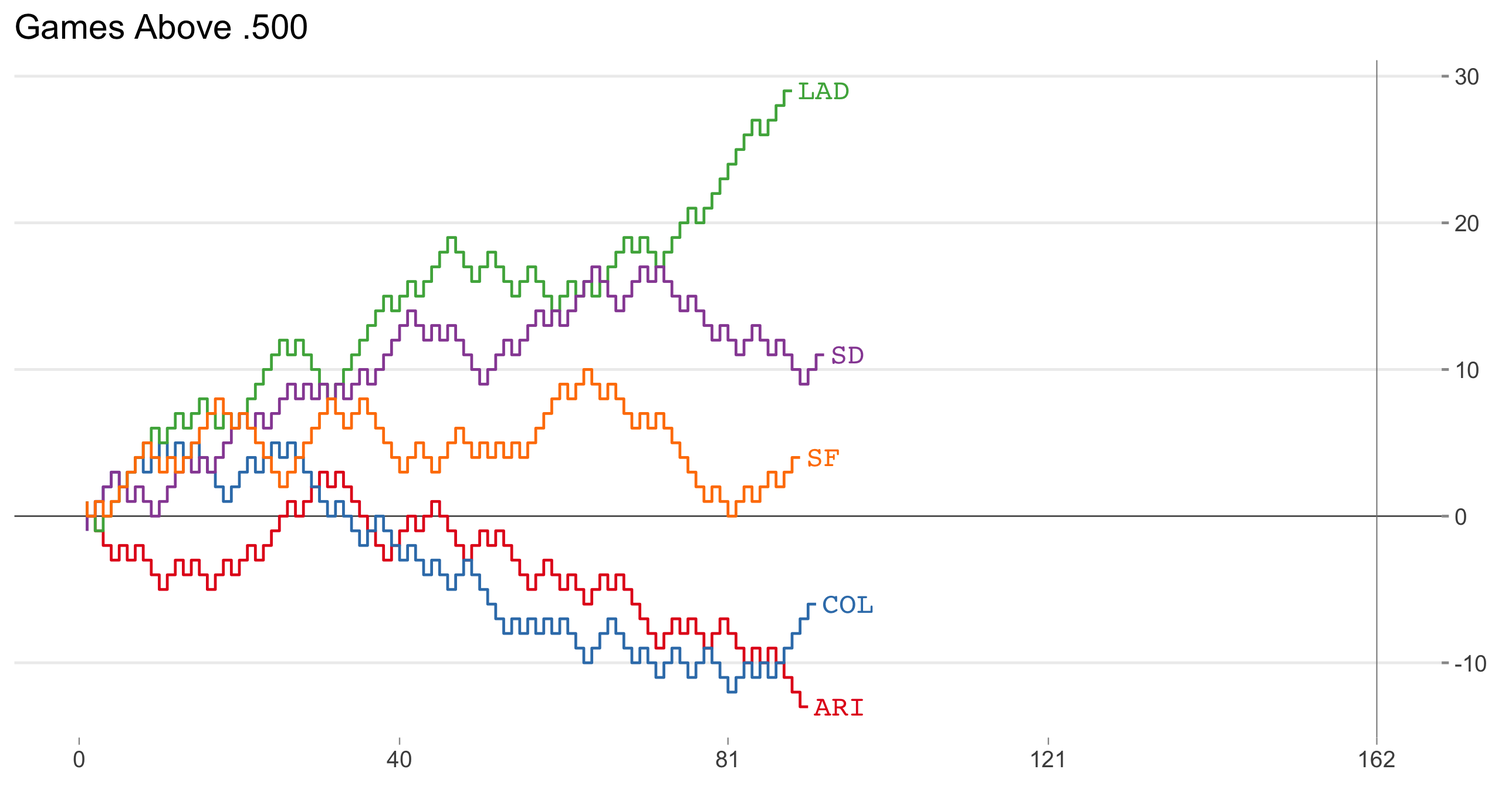
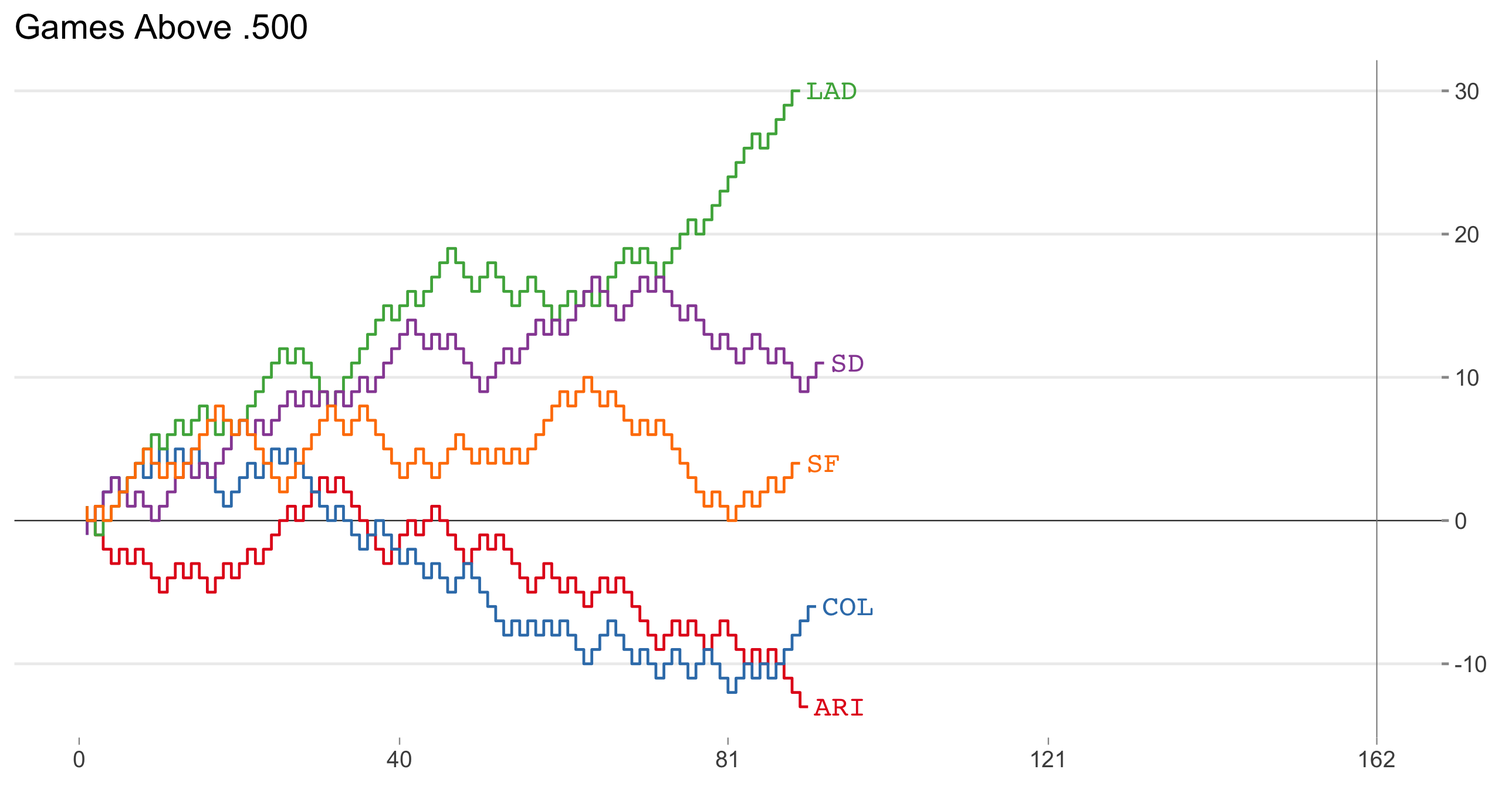
Latest data: Sun Jul 17 06:16:55 UTC 2022

diff --git a/charts/baseball.md b/charts/baseball.md
@@ -120,11 +120,11 @@ permalink: /charts/baseball/
 <td style="padding-top: 3px; padding-bottom: 3px; padding-left: 5px; padding-right: 5px; margin: 10px; border-top-style: none; border-top-width: 1px; border-top-color: #D3D3D3; border-left-style: none; border-left-width: 1px; border-left-color: #D3D3D3; border-right-style: none; border-right-width: 1px; border-right-color: #D3D3D3; vertical-align: middle; overflow-x: hidden; text-align: right; font-variant-numeric: tabular-nums;">▄▀▀▄▀▄▀▄▄▄</td></tr>
     <tr><td style="padding-top: 3px; padding-bottom: 3px; padding-left: 5px; padding-right: 5px; margin: 10px; border-top-style: none; border-top-width: 1px; border-top-color: #D3D3D3; border-left-style: none; border-left-width: 1px; border-left-color: #D3D3D3; border-right-style: none; border-right-width: 1px; border-right-color: #D3D3D3; vertical-align: middle; overflow-x: hidden; background-color: rgba(128, 128, 128, 0.05); text-align: left;">LAA</td>
 <td style="padding-top: 3px; padding-bottom: 3px; padding-left: 5px; padding-right: 5px; margin: 10px; border-top-style: none; border-top-width: 1px; border-top-color: #D3D3D3; border-left-style: none; border-left-width: 1px; border-left-color: #D3D3D3; border-right-style: none; border-right-width: 1px; border-right-color: #D3D3D3; vertical-align: middle; overflow-x: hidden; background-color: rgba(128, 128, 128, 0.05); text-align: right; font-variant-numeric: tabular-nums;">39</td>
-<td style="padding-top: 3px; padding-bottom: 3px; padding-left: 5px; padding-right: 5px; margin: 10px; border-top-style: none; border-top-width: 1px; border-top-color: #D3D3D3; border-left-style: none; border-left-width: 1px; border-left-color: #D3D3D3; border-right-style: none; border-right-width: 1px; border-right-color: #D3D3D3; vertical-align: middle; overflow-x: hidden; background-color: rgba(128, 128, 128, 0.05); text-align: right; font-variant-numeric: tabular-nums;">52</td>
-<td style="padding-top: 3px; padding-bottom: 3px; padding-left: 5px; padding-right: 5px; margin: 10px; border-top-style: none; border-top-width: 1px; border-top-color: #D3D3D3; border-left-style: none; border-left-width: 1px; border-left-color: #D3D3D3; border-right-style: none; border-right-width: 1px; border-right-color: #D3D3D3; vertical-align: middle; overflow-x: hidden; background-color: rgba(128, 128, 128, 0.05); text-align: right; font-variant-numeric: tabular-nums;">&minus;13</td>
-<td style="padding-top: 3px; padding-bottom: 3px; padding-left: 5px; padding-right: 5px; margin: 10px; border-top-style: none; border-top-width: 1px; border-top-color: #D3D3D3; border-left-style: none; border-left-width: 1px; border-left-color: #D3D3D3; border-right-style: none; border-right-width: 1px; border-right-color: #D3D3D3; vertical-align: middle; overflow-x: hidden; background-color: rgba(128, 128, 128, 0.05); text-align: right; font-variant-numeric: tabular-nums;">.429</td>
-<td style="padding-top: 3px; padding-bottom: 3px; padding-left: 5px; padding-right: 5px; margin: 10px; border-top-style: none; border-top-width: 1px; border-top-color: #D3D3D3; border-left-style: none; border-left-width: 1px; border-left-color: #D3D3D3; border-right-style: none; border-right-width: 1px; border-right-color: #D3D3D3; vertical-align: middle; overflow-x: hidden; background-color: rgba(128, 128, 128, 0.05); text-align: right; font-variant-numeric: tabular-nums;">71</td>
-<td style="padding-top: 3px; padding-bottom: 3px; padding-left: 5px; padding-right: 5px; margin: 10px; border-top-style: none; border-top-width: 1px; border-top-color: #D3D3D3; border-left-style: none; border-left-width: 1px; border-left-color: #D3D3D3; border-right-style: none; border-right-width: 1px; border-right-color: #D3D3D3; vertical-align: middle; overflow-x: hidden; background-color: rgba(128, 128, 128, 0.05); text-align: right; font-variant-numeric: tabular-nums;">▄▀▄▄▄▄▄▀▄▄</td></tr>
+<td style="padding-top: 3px; padding-bottom: 3px; padding-left: 5px; padding-right: 5px; margin: 10px; border-top-style: none; border-top-width: 1px; border-top-color: #D3D3D3; border-left-style: none; border-left-width: 1px; border-left-color: #D3D3D3; border-right-style: none; border-right-width: 1px; border-right-color: #D3D3D3; vertical-align: middle; overflow-x: hidden; background-color: rgba(128, 128, 128, 0.05); text-align: right; font-variant-numeric: tabular-nums;">53</td>
+<td style="padding-top: 3px; padding-bottom: 3px; padding-left: 5px; padding-right: 5px; margin: 10px; border-top-style: none; border-top-width: 1px; border-top-color: #D3D3D3; border-left-style: none; border-left-width: 1px; border-left-color: #D3D3D3; border-right-style: none; border-right-width: 1px; border-right-color: #D3D3D3; vertical-align: middle; overflow-x: hidden; background-color: rgba(128, 128, 128, 0.05); text-align: right; font-variant-numeric: tabular-nums;">&minus;14</td>
+<td style="padding-top: 3px; padding-bottom: 3px; padding-left: 5px; padding-right: 5px; margin: 10px; border-top-style: none; border-top-width: 1px; border-top-color: #D3D3D3; border-left-style: none; border-left-width: 1px; border-left-color: #D3D3D3; border-right-style: none; border-right-width: 1px; border-right-color: #D3D3D3; vertical-align: middle; overflow-x: hidden; background-color: rgba(128, 128, 128, 0.05); text-align: right; font-variant-numeric: tabular-nums;">.424</td>
+<td style="padding-top: 3px; padding-bottom: 3px; padding-left: 5px; padding-right: 5px; margin: 10px; border-top-style: none; border-top-width: 1px; border-top-color: #D3D3D3; border-left-style: none; border-left-width: 1px; border-left-color: #D3D3D3; border-right-style: none; border-right-width: 1px; border-right-color: #D3D3D3; vertical-align: middle; overflow-x: hidden; background-color: rgba(128, 128, 128, 0.05); text-align: right; font-variant-numeric: tabular-nums;">70</td>
+<td style="padding-top: 3px; padding-bottom: 3px; padding-left: 5px; padding-right: 5px; margin: 10px; border-top-style: none; border-top-width: 1px; border-top-color: #D3D3D3; border-left-style: none; border-left-width: 1px; border-left-color: #D3D3D3; border-right-style: none; border-right-width: 1px; border-right-color: #D3D3D3; vertical-align: middle; overflow-x: hidden; background-color: rgba(128, 128, 128, 0.05); text-align: right; font-variant-numeric: tabular-nums;">▀▄▄▄▄▄▀▄▄▄</td></tr>
     <tr><td style="padding-top: 3px; padding-bottom: 3px; padding-left: 5px; padding-right: 5px; margin: 10px; border-top-style: none; border-top-width: 1px; border-top-color: #D3D3D3; border-left-style: none; border-left-width: 1px; border-left-color: #D3D3D3; border-right-style: none; border-right-width: 1px; border-right-color: #D3D3D3; vertical-align: middle; overflow-x: hidden; text-align: left;">OAK</td>
 <td style="padding-top: 3px; padding-bottom: 3px; padding-left: 5px; padding-right: 5px; margin: 10px; border-top-style: none; border-top-width: 1px; border-top-color: #D3D3D3; border-left-style: none; border-left-width: 1px; border-left-color: #D3D3D3; border-right-style: none; border-right-width: 1px; border-right-color: #D3D3D3; vertical-align: middle; overflow-x: hidden; text-align: right; font-variant-numeric: tabular-nums;">31</td>
 <td style="padding-top: 3px; padding-bottom: 3px; padding-left: 5px; padding-right: 5px; margin: 10px; border-top-style: none; border-top-width: 1px; border-top-color: #D3D3D3; border-left-style: none; border-left-width: 1px; border-left-color: #D3D3D3; border-right-style: none; border-right-width: 1px; border-right-color: #D3D3D3; vertical-align: middle; overflow-x: hidden; text-align: right; font-variant-numeric: tabular-nums;">61</td>
@@ -212,12 +212,12 @@ permalink: /charts/baseball/
       <td colspan="7" style="padding: 8px; color: #333333; background-color: #FFFFFF; font-size: 80%; font-weight: bolder; text-transform: uppercase; border-top-style: none; border-top-width: 2px; border-top-color: #D3D3D3; border-bottom-style: none; border-bottom-width: 2px; border-bottom-color: #D3D3D3; border-left-style: none; border-left-width: 1px; border-left-color: #D3D3D3; border-right-style: none; border-right-width: 1px; border-right-color: #D3D3D3; vertical-align: middle;">NL West</td>
     </tr>
     <tr><td style="padding-top: 3px; padding-bottom: 3px; padding-left: 5px; padding-right: 5px; margin: 10px; border-top-style: none; border-top-width: 1px; border-top-color: #D3D3D3; border-left-style: none; border-left-width: 1px; border-left-color: #D3D3D3; border-right-style: none; border-right-width: 1px; border-right-color: #D3D3D3; vertical-align: middle; overflow-x: hidden; background-color: rgba(128, 128, 128, 0.05); text-align: left;">LAD</td>
-<td style="padding-top: 3px; padding-bottom: 3px; padding-left: 5px; padding-right: 5px; margin: 10px; border-top-style: none; border-top-width: 1px; border-top-color: #D3D3D3; border-left-style: none; border-left-width: 1px; border-left-color: #D3D3D3; border-right-style: none; border-right-width: 1px; border-right-color: #D3D3D3; vertical-align: middle; overflow-x: hidden; background-color: rgba(128, 128, 128, 0.05); text-align: right; font-variant-numeric: tabular-nums;">59</td>
+<td style="padding-top: 3px; padding-bottom: 3px; padding-left: 5px; padding-right: 5px; margin: 10px; border-top-style: none; border-top-width: 1px; border-top-color: #D3D3D3; border-left-style: none; border-left-width: 1px; border-left-color: #D3D3D3; border-right-style: none; border-right-width: 1px; border-right-color: #D3D3D3; vertical-align: middle; overflow-x: hidden; background-color: rgba(128, 128, 128, 0.05); text-align: right; font-variant-numeric: tabular-nums;">60</td>
 <td style="padding-top: 3px; padding-bottom: 3px; padding-left: 5px; padding-right: 5px; margin: 10px; border-top-style: none; border-top-width: 1px; border-top-color: #D3D3D3; border-left-style: none; border-left-width: 1px; border-left-color: #D3D3D3; border-right-style: none; border-right-width: 1px; border-right-color: #D3D3D3; vertical-align: middle; overflow-x: hidden; background-color: rgba(128, 128, 128, 0.05); text-align: right; font-variant-numeric: tabular-nums;">30</td>
-<td style="padding-top: 3px; padding-bottom: 3px; padding-left: 5px; padding-right: 5px; margin: 10px; border-top-style: none; border-top-width: 1px; border-top-color: #D3D3D3; border-left-style: none; border-left-width: 1px; border-left-color: #D3D3D3; border-right-style: none; border-right-width: 1px; border-right-color: #D3D3D3; vertical-align: middle; overflow-x: hidden; background-color: rgba(128, 128, 128, 0.05); text-align: right; font-variant-numeric: tabular-nums;">+29</td>
-<td style="padding-top: 3px; padding-bottom: 3px; padding-left: 5px; padding-right: 5px; margin: 10px; border-top-style: none; border-top-width: 1px; border-top-color: #D3D3D3; border-left-style: none; border-left-width: 1px; border-left-color: #D3D3D3; border-right-style: none; border-right-width: 1px; border-right-color: #D3D3D3; vertical-align: middle; overflow-x: hidden; background-color: rgba(128, 128, 128, 0.05); text-align: right; font-variant-numeric: tabular-nums;">.663</td>
-<td style="padding-top: 3px; padding-bottom: 3px; padding-left: 5px; padding-right: 5px; margin: 10px; border-top-style: none; border-top-width: 1px; border-top-color: #D3D3D3; border-left-style: none; border-left-width: 1px; border-left-color: #D3D3D3; border-right-style: none; border-right-width: 1px; border-right-color: #D3D3D3; vertical-align: middle; overflow-x: hidden; background-color: rgba(128, 128, 128, 0.05); text-align: right; font-variant-numeric: tabular-nums;">73</td>
-<td style="padding-top: 3px; padding-bottom: 3px; padding-left: 5px; padding-right: 5px; margin: 10px; border-top-style: none; border-top-width: 1px; border-top-color: #D3D3D3; border-left-style: none; border-left-width: 1px; border-left-color: #D3D3D3; border-right-style: none; border-right-width: 1px; border-right-color: #D3D3D3; vertical-align: middle; overflow-x: hidden; background-color: rgba(128, 128, 128, 0.05); text-align: right; font-variant-numeric: tabular-nums;">▀▀▀▀▀▀▄▀▀▀</td></tr>
+<td style="padding-top: 3px; padding-bottom: 3px; padding-left: 5px; padding-right: 5px; margin: 10px; border-top-style: none; border-top-width: 1px; border-top-color: #D3D3D3; border-left-style: none; border-left-width: 1px; border-left-color: #D3D3D3; border-right-style: none; border-right-width: 1px; border-right-color: #D3D3D3; vertical-align: middle; overflow-x: hidden; background-color: rgba(128, 128, 128, 0.05); text-align: right; font-variant-numeric: tabular-nums;">+30</td>
+<td style="padding-top: 3px; padding-bottom: 3px; padding-left: 5px; padding-right: 5px; margin: 10px; border-top-style: none; border-top-width: 1px; border-top-color: #D3D3D3; border-left-style: none; border-left-width: 1px; border-left-color: #D3D3D3; border-right-style: none; border-right-width: 1px; border-right-color: #D3D3D3; vertical-align: middle; overflow-x: hidden; background-color: rgba(128, 128, 128, 0.05); text-align: right; font-variant-numeric: tabular-nums;">.667</td>
+<td style="padding-top: 3px; padding-bottom: 3px; padding-left: 5px; padding-right: 5px; margin: 10px; border-top-style: none; border-top-width: 1px; border-top-color: #D3D3D3; border-left-style: none; border-left-width: 1px; border-left-color: #D3D3D3; border-right-style: none; border-right-width: 1px; border-right-color: #D3D3D3; vertical-align: middle; overflow-x: hidden; background-color: rgba(128, 128, 128, 0.05); text-align: right; font-variant-numeric: tabular-nums;">72</td>
+<td style="padding-top: 3px; padding-bottom: 3px; padding-left: 5px; padding-right: 5px; margin: 10px; border-top-style: none; border-top-width: 1px; border-top-color: #D3D3D3; border-left-style: none; border-left-width: 1px; border-left-color: #D3D3D3; border-right-style: none; border-right-width: 1px; border-right-color: #D3D3D3; vertical-align: middle; overflow-x: hidden; background-color: rgba(128, 128, 128, 0.05); text-align: right; font-variant-numeric: tabular-nums;">▀▀▀▀▀▄▀▀▀▀</td></tr>
     <tr><td style="padding-top: 3px; padding-bottom: 3px; padding-left: 5px; padding-right: 5px; margin: 10px; border-top-style: none; border-top-width: 1px; border-top-color: #D3D3D3; border-left-style: none; border-left-width: 1px; border-left-color: #D3D3D3; border-right-style: none; border-right-width: 1px; border-right-color: #D3D3D3; vertical-align: middle; overflow-x: hidden; text-align: left;">SD </td>
 <td style="padding-top: 3px; padding-bottom: 3px; padding-left: 5px; padding-right: 5px; margin: 10px; border-top-style: none; border-top-width: 1px; border-top-color: #D3D3D3; border-left-style: none; border-left-width: 1px; border-left-color: #D3D3D3; border-right-style: none; border-right-width: 1px; border-right-color: #D3D3D3; vertical-align: middle; overflow-x: hidden; text-align: right; font-variant-numeric: tabular-nums;">52</td>
 <td style="padding-top: 3px; padding-bottom: 3px; padding-left: 5px; padding-right: 5px; margin: 10px; border-top-style: none; border-top-width: 1px; border-top-color: #D3D3D3; border-left-style: none; border-left-width: 1px; border-left-color: #D3D3D3; border-right-style: none; border-right-width: 1px; border-right-color: #D3D3D3; vertical-align: middle; overflow-x: hidden; text-align: right; font-variant-numeric: tabular-nums;">41</td>
@@ -373,11 +373,11 @@ permalink: /charts/baseball/
 <td style="padding-top: 3px; padding-bottom: 3px; padding-left: 5px; padding-right: 5px; margin: 10px; border-top-style: none; border-top-width: 1px; border-top-color: #D3D3D3; border-left-style: none; border-left-width: 1px; border-left-color: #D3D3D3; border-right-style: none; border-right-width: 1px; border-right-color: #D3D3D3; vertical-align: middle; overflow-x: hidden; text-align: right; font-variant-numeric: tabular-nums;">▄▀▀▄▀▄▀▄▄▄</td></tr>
     <tr><td style="padding-top: 3px; padding-bottom: 3px; padding-left: 5px; padding-right: 5px; margin: 10px; border-top-style: none; border-top-width: 1px; border-top-color: #D3D3D3; border-left-style: none; border-left-width: 1px; border-left-color: #D3D3D3; border-right-style: none; border-right-width: 1px; border-right-color: #D3D3D3; vertical-align: middle; overflow-x: hidden; background-color: rgba(128, 128, 128, 0.05); text-align: left;">LAA</td>
 <td style="padding-top: 3px; padding-bottom: 3px; padding-left: 5px; padding-right: 5px; margin: 10px; border-top-style: none; border-top-width: 1px; border-top-color: #D3D3D3; border-left-style: none; border-left-width: 1px; border-left-color: #D3D3D3; border-right-style: none; border-right-width: 1px; border-right-color: #D3D3D3; vertical-align: middle; overflow-x: hidden; background-color: rgba(128, 128, 128, 0.05); text-align: right; font-variant-numeric: tabular-nums;">39</td>
-<td style="padding-top: 3px; padding-bottom: 3px; padding-left: 5px; padding-right: 5px; margin: 10px; border-top-style: none; border-top-width: 1px; border-top-color: #D3D3D3; border-left-style: none; border-left-width: 1px; border-left-color: #D3D3D3; border-right-style: none; border-right-width: 1px; border-right-color: #D3D3D3; vertical-align: middle; overflow-x: hidden; background-color: rgba(128, 128, 128, 0.05); text-align: right; font-variant-numeric: tabular-nums;">52</td>
-<td style="padding-top: 3px; padding-bottom: 3px; padding-left: 5px; padding-right: 5px; margin: 10px; border-top-style: none; border-top-width: 1px; border-top-color: #D3D3D3; border-left-style: none; border-left-width: 1px; border-left-color: #D3D3D3; border-right-style: none; border-right-width: 1px; border-right-color: #D3D3D3; vertical-align: middle; overflow-x: hidden; background-color: rgba(128, 128, 128, 0.05); text-align: right; font-variant-numeric: tabular-nums;">&minus;13</td>
-<td style="padding-top: 3px; padding-bottom: 3px; padding-left: 5px; padding-right: 5px; margin: 10px; border-top-style: none; border-top-width: 1px; border-top-color: #D3D3D3; border-left-style: none; border-left-width: 1px; border-left-color: #D3D3D3; border-right-style: none; border-right-width: 1px; border-right-color: #D3D3D3; vertical-align: middle; overflow-x: hidden; background-color: rgba(128, 128, 128, 0.05); text-align: right; font-variant-numeric: tabular-nums;">.429</td>
-<td style="padding-top: 3px; padding-bottom: 3px; padding-left: 5px; padding-right: 5px; margin: 10px; border-top-style: none; border-top-width: 1px; border-top-color: #D3D3D3; border-left-style: none; border-left-width: 1px; border-left-color: #D3D3D3; border-right-style: none; border-right-width: 1px; border-right-color: #D3D3D3; vertical-align: middle; overflow-x: hidden; background-color: rgba(128, 128, 128, 0.05); text-align: right; font-variant-numeric: tabular-nums;">71</td>
-<td style="padding-top: 3px; padding-bottom: 3px; padding-left: 5px; padding-right: 5px; margin: 10px; border-top-style: none; border-top-width: 1px; border-top-color: #D3D3D3; border-left-style: none; border-left-width: 1px; border-left-color: #D3D3D3; border-right-style: none; border-right-width: 1px; border-right-color: #D3D3D3; vertical-align: middle; overflow-x: hidden; background-color: rgba(128, 128, 128, 0.05); text-align: right; font-variant-numeric: tabular-nums;">▄▀▄▄▄▄▄▀▄▄</td></tr>
+<td style="padding-top: 3px; padding-bottom: 3px; padding-left: 5px; padding-right: 5px; margin: 10px; border-top-style: none; border-top-width: 1px; border-top-color: #D3D3D3; border-left-style: none; border-left-width: 1px; border-left-color: #D3D3D3; border-right-style: none; border-right-width: 1px; border-right-color: #D3D3D3; vertical-align: middle; overflow-x: hidden; background-color: rgba(128, 128, 128, 0.05); text-align: right; font-variant-numeric: tabular-nums;">53</td>
+<td style="padding-top: 3px; padding-bottom: 3px; padding-left: 5px; padding-right: 5px; margin: 10px; border-top-style: none; border-top-width: 1px; border-top-color: #D3D3D3; border-left-style: none; border-left-width: 1px; border-left-color: #D3D3D3; border-right-style: none; border-right-width: 1px; border-right-color: #D3D3D3; vertical-align: middle; overflow-x: hidden; background-color: rgba(128, 128, 128, 0.05); text-align: right; font-variant-numeric: tabular-nums;">&minus;14</td>
+<td style="padding-top: 3px; padding-bottom: 3px; padding-left: 5px; padding-right: 5px; margin: 10px; border-top-style: none; border-top-width: 1px; border-top-color: #D3D3D3; border-left-style: none; border-left-width: 1px; border-left-color: #D3D3D3; border-right-style: none; border-right-width: 1px; border-right-color: #D3D3D3; vertical-align: middle; overflow-x: hidden; background-color: rgba(128, 128, 128, 0.05); text-align: right; font-variant-numeric: tabular-nums;">.424</td>
+<td style="padding-top: 3px; padding-bottom: 3px; padding-left: 5px; padding-right: 5px; margin: 10px; border-top-style: none; border-top-width: 1px; border-top-color: #D3D3D3; border-left-style: none; border-left-width: 1px; border-left-color: #D3D3D3; border-right-style: none; border-right-width: 1px; border-right-color: #D3D3D3; vertical-align: middle; overflow-x: hidden; background-color: rgba(128, 128, 128, 0.05); text-align: right; font-variant-numeric: tabular-nums;">70</td>
+<td style="padding-top: 3px; padding-bottom: 3px; padding-left: 5px; padding-right: 5px; margin: 10px; border-top-style: none; border-top-width: 1px; border-top-color: #D3D3D3; border-left-style: none; border-left-width: 1px; border-left-color: #D3D3D3; border-right-style: none; border-right-width: 1px; border-right-color: #D3D3D3; vertical-align: middle; overflow-x: hidden; background-color: rgba(128, 128, 128, 0.05); text-align: right; font-variant-numeric: tabular-nums;">▀▄▄▄▄▄▀▄▄▄</td></tr>
     <tr><td style="padding-top: 3px; padding-bottom: 3px; padding-left: 5px; padding-right: 5px; margin: 10px; border-top-style: none; border-top-width: 1px; border-top-color: #D3D3D3; border-left-style: none; border-left-width: 1px; border-left-color: #D3D3D3; border-right-style: none; border-right-width: 1px; border-right-color: #D3D3D3; vertical-align: middle; overflow-x: hidden; text-align: left;">DET</td>
 <td style="padding-top: 3px; padding-bottom: 3px; padding-left: 5px; padding-right: 5px; margin: 10px; border-top-style: none; border-top-width: 1px; border-top-color: #D3D3D3; border-left-style: none; border-left-width: 1px; border-left-color: #D3D3D3; border-right-style: none; border-right-width: 1px; border-right-color: #D3D3D3; vertical-align: middle; overflow-x: hidden; text-align: right; font-variant-numeric: tabular-nums;">37</td>
 <td style="padding-top: 3px; padding-bottom: 3px; padding-left: 5px; padding-right: 5px; margin: 10px; border-top-style: none; border-top-width: 1px; border-top-color: #D3D3D3; border-left-style: none; border-left-width: 1px; border-left-color: #D3D3D3; border-right-style: none; border-right-width: 1px; border-right-color: #D3D3D3; vertical-align: middle; overflow-x: hidden; text-align: right; font-variant-numeric: tabular-nums;">55</td>
@@ -403,12 +403,12 @@ permalink: /charts/baseball/
       <td colspan="7" style="padding: 8px; color: #333333; background-color: #FFFFFF; font-size: 80%; font-weight: bolder; text-transform: uppercase; border-top-style: none; border-top-width: 2px; border-top-color: #D3D3D3; border-bottom-style: none; border-bottom-width: 2px; border-bottom-color: #D3D3D3; border-left-style: none; border-left-width: 1px; border-left-color: #D3D3D3; border-right-style: none; border-right-width: 1px; border-right-color: #D3D3D3; vertical-align: middle;">NL</td>
     </tr>
     <tr><td style="padding-top: 3px; padding-bottom: 3px; padding-left: 5px; padding-right: 5px; margin: 10px; border-top-style: none; border-top-width: 1px; border-top-color: #D3D3D3; border-left-style: none; border-left-width: 1px; border-left-color: #D3D3D3; border-right-style: none; border-right-width: 1px; border-right-color: #D3D3D3; vertical-align: middle; overflow-x: hidden; background-color: rgba(128, 128, 128, 0.05); text-align: left;">LAD</td>
-<td style="padding-top: 3px; padding-bottom: 3px; padding-left: 5px; padding-right: 5px; margin: 10px; border-top-style: none; border-top-width: 1px; border-top-color: #D3D3D3; border-left-style: none; border-left-width: 1px; border-left-color: #D3D3D3; border-right-style: none; border-right-width: 1px; border-right-color: #D3D3D3; vertical-align: middle; overflow-x: hidden; background-color: rgba(128, 128, 128, 0.05); text-align: right; font-variant-numeric: tabular-nums;">59</td>
+<td style="padding-top: 3px; padding-bottom: 3px; padding-left: 5px; padding-right: 5px; margin: 10px; border-top-style: none; border-top-width: 1px; border-top-color: #D3D3D3; border-left-style: none; border-left-width: 1px; border-left-color: #D3D3D3; border-right-style: none; border-right-width: 1px; border-right-color: #D3D3D3; vertical-align: middle; overflow-x: hidden; background-color: rgba(128, 128, 128, 0.05); text-align: right; font-variant-numeric: tabular-nums;">60</td>
 <td style="padding-top: 3px; padding-bottom: 3px; padding-left: 5px; padding-right: 5px; margin: 10px; border-top-style: none; border-top-width: 1px; border-top-color: #D3D3D3; border-left-style: none; border-left-width: 1px; border-left-color: #D3D3D3; border-right-style: none; border-right-width: 1px; border-right-color: #D3D3D3; vertical-align: middle; overflow-x: hidden; background-color: rgba(128, 128, 128, 0.05); text-align: right; font-variant-numeric: tabular-nums;">30</td>
-<td style="padding-top: 3px; padding-bottom: 3px; padding-left: 5px; padding-right: 5px; margin: 10px; border-top-style: none; border-top-width: 1px; border-top-color: #D3D3D3; border-left-style: none; border-left-width: 1px; border-left-color: #D3D3D3; border-right-style: none; border-right-width: 1px; border-right-color: #D3D3D3; vertical-align: middle; overflow-x: hidden; background-color: rgba(128, 128, 128, 0.05); text-align: right; font-variant-numeric: tabular-nums;">+29</td>
-<td style="padding-top: 3px; padding-bottom: 3px; padding-left: 5px; padding-right: 5px; margin: 10px; border-top-style: none; border-top-width: 1px; border-top-color: #D3D3D3; border-left-style: none; border-left-width: 1px; border-left-color: #D3D3D3; border-right-style: none; border-right-width: 1px; border-right-color: #D3D3D3; vertical-align: middle; overflow-x: hidden; background-color: rgba(128, 128, 128, 0.05); text-align: right; font-variant-numeric: tabular-nums;">.663</td>
-<td style="padding-top: 3px; padding-bottom: 3px; padding-left: 5px; padding-right: 5px; margin: 10px; border-top-style: none; border-top-width: 1px; border-top-color: #D3D3D3; border-left-style: none; border-left-width: 1px; border-left-color: #D3D3D3; border-right-style: none; border-right-width: 1px; border-right-color: #D3D3D3; vertical-align: middle; overflow-x: hidden; background-color: rgba(128, 128, 128, 0.05); text-align: right; font-variant-numeric: tabular-nums;">73</td>
-<td style="padding-top: 3px; padding-bottom: 3px; padding-left: 5px; padding-right: 5px; margin: 10px; border-top-style: none; border-top-width: 1px; border-top-color: #D3D3D3; border-left-style: none; border-left-width: 1px; border-left-color: #D3D3D3; border-right-style: none; border-right-width: 1px; border-right-color: #D3D3D3; vertical-align: middle; overflow-x: hidden; background-color: rgba(128, 128, 128, 0.05); text-align: right; font-variant-numeric: tabular-nums;">▀▀▀▀▀▀▄▀▀▀</td></tr>
+<td style="padding-top: 3px; padding-bottom: 3px; padding-left: 5px; padding-right: 5px; margin: 10px; border-top-style: none; border-top-width: 1px; border-top-color: #D3D3D3; border-left-style: none; border-left-width: 1px; border-left-color: #D3D3D3; border-right-style: none; border-right-width: 1px; border-right-color: #D3D3D3; vertical-align: middle; overflow-x: hidden; background-color: rgba(128, 128, 128, 0.05); text-align: right; font-variant-numeric: tabular-nums;">+30</td>
+<td style="padding-top: 3px; padding-bottom: 3px; padding-left: 5px; padding-right: 5px; margin: 10px; border-top-style: none; border-top-width: 1px; border-top-color: #D3D3D3; border-left-style: none; border-left-width: 1px; border-left-color: #D3D3D3; border-right-style: none; border-right-width: 1px; border-right-color: #D3D3D3; vertical-align: middle; overflow-x: hidden; background-color: rgba(128, 128, 128, 0.05); text-align: right; font-variant-numeric: tabular-nums;">.667</td>
+<td style="padding-top: 3px; padding-bottom: 3px; padding-left: 5px; padding-right: 5px; margin: 10px; border-top-style: none; border-top-width: 1px; border-top-color: #D3D3D3; border-left-style: none; border-left-width: 1px; border-left-color: #D3D3D3; border-right-style: none; border-right-width: 1px; border-right-color: #D3D3D3; vertical-align: middle; overflow-x: hidden; background-color: rgba(128, 128, 128, 0.05); text-align: right; font-variant-numeric: tabular-nums;">72</td>
+<td style="padding-top: 3px; padding-bottom: 3px; padding-left: 5px; padding-right: 5px; margin: 10px; border-top-style: none; border-top-width: 1px; border-top-color: #D3D3D3; border-left-style: none; border-left-width: 1px; border-left-color: #D3D3D3; border-right-style: none; border-right-width: 1px; border-right-color: #D3D3D3; vertical-align: middle; overflow-x: hidden; background-color: rgba(128, 128, 128, 0.05); text-align: right; font-variant-numeric: tabular-nums;">▀▀▀▀▀▄▀▀▀▀</td></tr>
     <tr><td style="padding-top: 3px; padding-bottom: 3px; padding-left: 5px; padding-right: 5px; margin: 10px; border-top-style: none; border-top-width: 1px; border-top-color: #D3D3D3; border-left-style: none; border-left-width: 1px; border-left-color: #D3D3D3; border-right-style: none; border-right-width: 1px; border-right-color: #D3D3D3; vertical-align: middle; overflow-x: hidden; text-align: left;">NYM</td>
 <td style="padding-top: 3px; padding-bottom: 3px; padding-left: 5px; padding-right: 5px; margin: 10px; border-top-style: none; border-top-width: 1px; border-top-color: #D3D3D3; border-left-style: none; border-left-width: 1px; border-left-color: #D3D3D3; border-right-style: none; border-right-width: 1px; border-right-color: #D3D3D3; vertical-align: middle; overflow-x: hidden; text-align: right; font-variant-numeric: tabular-nums;">58</td>
 <td style="padding-top: 3px; padding-bottom: 3px; padding-left: 5px; padding-right: 5px; margin: 10px; border-top-style: none; border-top-width: 1px; border-top-color: #D3D3D3; border-left-style: none; border-left-width: 1px; border-left-color: #D3D3D3; border-right-style: none; border-right-width: 1px; border-right-color: #D3D3D3; vertical-align: middle; overflow-x: hidden; text-align: right; font-variant-numeric: tabular-nums;">34</td>
@@ -514,6 +514,6 @@ permalink: /charts/baseball/
 
 ![Wild Card]({{ site.baseurl }}/plots/mlb_team_rank.png)
 
-Source: [FiveThirtyEight](https://github.com/fivethirtyeight/data/tree/master/mlb-elo). [CC-BY-4.0 License](https://github.com/fivethirtyeight/data/blob/master/LICENSE). Latest data: 11:07 PM CT, July 16 
+Source: [FiveThirtyEight](https://github.com/fivethirtyeight/data/tree/master/mlb-elo). [CC-BY-4.0 License](https://github.com/fivethirtyeight/data/blob/master/LICENSE). Latest data: 01:16 AM CT, July 17 
 
 
